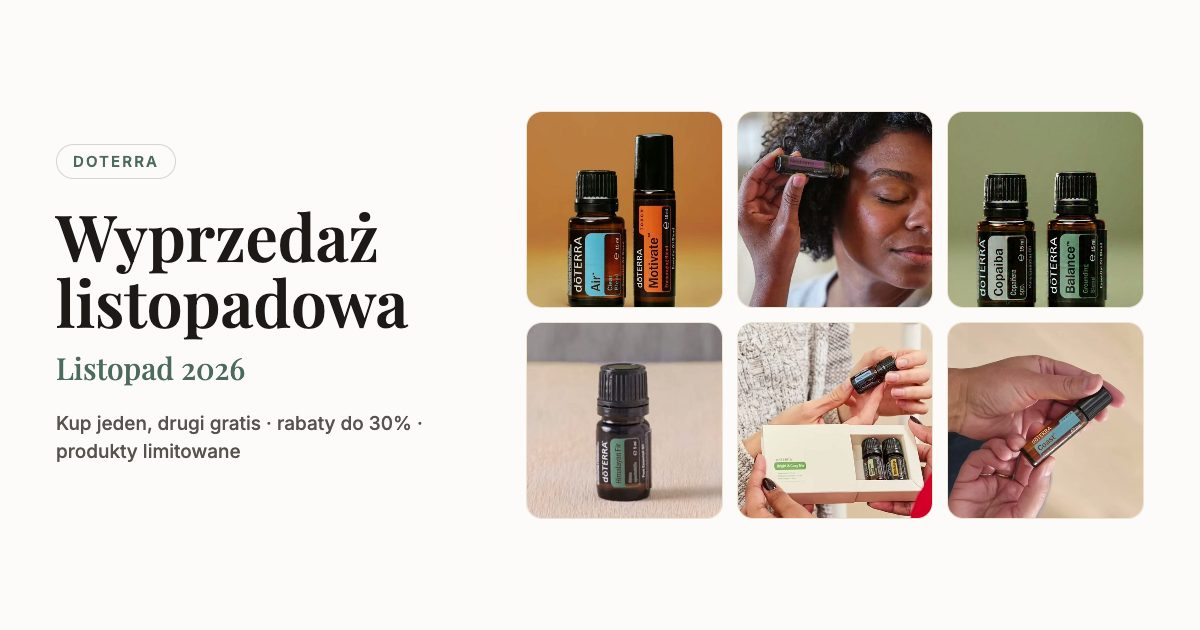
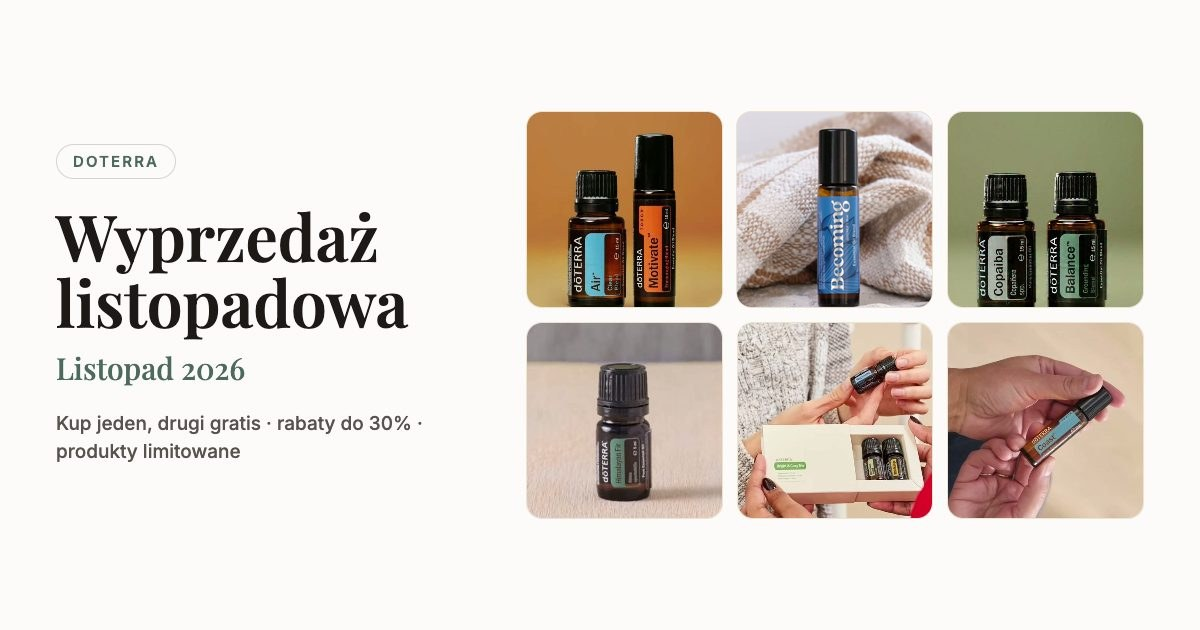
Wyprzedaż listopadowa: usunięte produkty wyprzedane w sklepie PL (Helichrysum Touch, Neshama Touch, ozdoba, lampka)
Stan sklepu 26.11.2026. Social preview: Becoming zamiast Neshama.

Changed region(s): [[0.6167, 0.1508, 0.8017, 0.5127]]

diff --git a/listopad-wyprzedaz/index.html b/listopad-wyprzedaz/index.html
@@ -4,12 +4,12 @@
 <meta property="og:url" content="https://emilia-chodorowska.github.io/new-client-offer/listopad-wyprzedaz/">
 <meta property="og:title" content="Wyprzedaż listopadowa doTERRA · listopad 2026">
 <meta property="og:description" content="Wyprzedaż listopadowa doTERRA: kup jeden, drugi gratis, rabaty do 30% i produkty limitowane. Zdjęcia, PV i ceny w zł.">
-<meta property="og:image" content="https://emilia-chodorowska.github.io/new-client-offer/listopad-wyprzedaz/social-preview.jpg?v=2">
+<meta property="og:image" content="https://emilia-chodorowska.github.io/new-client-offer/listopad-wyprzedaz/social-preview.jpg?v=3">
 <meta property="og:image:width" content="1200"><meta property="og:image:height" content="630">
 <meta name="twitter:card" content="summary_large_image">
 <meta name="twitter:title" content="Wyprzedaż listopadowa doTERRA · listopad 2026">
 <meta name="twitter:description" content="Wyprzedaż listopadowa doTERRA: kup jeden, drugi gratis, rabaty do 30% i produkty limitowane. Zdjęcia, PV i ceny w zł.">
-<meta name="twitter:image" content="https://emilia-chodorowska.github.io/new-client-offer/listopad-wyprzedaz/social-preview.jpg?v=2">
+<meta name="twitter:image" content="https://emilia-chodorowska.github.io/new-client-offer/listopad-wyprzedaz/social-preview.jpg?v=3">
 <link rel="icon" type="image/svg+xml" href="favicon.svg">
 <link rel="preconnect" href="https://fonts.googleapis.com"><link rel="preconnect" href="https://fonts.gstatic.com" crossorigin>
 <link href="https://fonts.googleapis.com/css2?family=Inter:wght@400;500;600;700&family=Playfair+Display:wght@500;600&display=swap" rel="stylesheet">
@@ -64,26 +64,20 @@ h3{font-size:19px;font-weight:600;margin:0 0 5px;line-height:1.25} .op{font-size
 <article class="k"><div class="foto"><img src="img/copaiba-balance.jpg?v=2" alt="Copaiba (15 ml) + gratis dōTERRA Balance™ (15 ml)"></div>
 <div class="tr"><div class="meta"><span class="et">KUPUJESZ 1 + GRATIS</span><span class="pvm">· 43,5 PV</span></div>
 <h3>Copaiba (15 ml) + gratis dōTERRA Balance™ (15 ml)</h3><div class="op">Płacisz za Copaibę 15 ml, Balance 15 ml dostajesz gratis (jego cena regularna: 137,50 zł).</div><div class="row"><div><div class="lab ak">Cena</div><div class="pln">205,75 <span>zł</span></div></div></div></div></article></div>
-<div class="sek"><span class="t">Rabaty na produkty z oferty stałej</span><span class="l"></span><span class="n">4 pozycje</span></div>
+<div class="sek"><span class="t">Rabaty na produkty z oferty stałej</span><span class="l"></span><span class="n">3 pozycje</span></div>
 <div class="lista"><article class="k"><div class="foto"><img src="img/adaptiv.jpg?v=2" alt="dōTERRA Adaptiv™ (15 ml)"></div>
 <div class="tr"><div class="meta"><span class="et">RABAT 10%</span><span class="pvm">· 44,5 PV</span></div>
 <h3>dōTERRA Adaptiv™ (15 ml)</h3><div class="op">mieszanka uspokajająca (cena regularna 232,00 zł)</div><div class="row"><div><div class="lab ak">Cena</div><div class="pln">209,25 <span>zł</span></div></div></div></div></article>
 <article class="k"><div class="foto"><img src="img/adaptiv-capsules.jpg?v=2" alt="Kapsułki dōTERRA Adaptiv™"></div>
 <div class="tr"><div class="meta"><span class="et">RABAT 10%</span><span class="pvm">· 32,5 PV</span></div>
 <h3>Kapsułki dōTERRA Adaptiv™</h3><div class="op">30 kapsułek (cena regularna 221,50 zł)</div><div class="row"><div><div class="lab ak">Cena</div><div class="pln">199,75 <span>zł</span></div></div></div></div></article>
-<article class="k"><div class="foto"><img src="img/helichrysum-touch.jpg?v=2" alt="Helichrysum Touch (10 ml)"></div>
-<div class="tr"><div class="meta"><span class="et">RABAT 10%</span><span class="pvm">· 50,5 PV</span></div>
-<h3>Helichrysum Touch (10 ml)</h3><div class="op">olejek z kocanki włoskiej w kulce (cena regularna 289,25 zł)</div><div class="row"><div><div class="lab ak">Cena</div><div class="pln">260,26 <span>zł</span></div></div></div></div></article>
 <article class="k"><div class="foto"><img src="img/veo-mega.jpg?v=2" alt="vEO Mega™ (wersja wegańska)"></div>
 <div class="tr"><div class="meta"><span class="et">RABAT 15%</span><span class="pvm">· 57 PV</span></div>
 <h3>vEO Mega™ (wersja wegańska)</h3><div class="op">kwasy omega, witaminy i ekstrakty roślinne w kapsułkach (cena regularna 379,25 zł)</div><div class="row"><div><div class="lab ak">Cena</div><div class="pln">322,51 <span>zł</span></div></div></div></div></article></div>
-<div class="sek"><span class="t">Produkty limitowane w niższej cenie</span><span class="l"></span><span class="n">8 pozycji</span></div>
+<div class="sek"><span class="t">Produkty limitowane w niższej cenie</span><span class="l"></span><span class="n">7 pozycji</span></div>
 <div class="lista"><article class="k"><div class="foto"><img src="img/himalayan-fir.jpg?v=2" alt="Jodła himalajska (Himalayan Fir, 5 ml)"></div>
 <div class="tr"><div class="meta"><span class="et">LIMITOWANY · RABAT 30%</span><span class="pvm">· 19,5 PV</span></div>
 <h3>Jodła himalajska (Himalayan Fir, 5 ml)</h3><div class="op">olejek jednoskładnikowy (cena regularna 131,50 zł)</div><div class="row"><div><div class="lab ak">Cena</div><div class="pln">92,00 <span>zł</span></div></div></div></div></article>
-<article class="k"><div class="foto"><img src="img/neshama.jpg?v=2" alt="Neshama Touch (10 ml)"></div>
-<div class="tr"><div class="meta"><span class="et">LIMITOWANY · RABAT 20%</span><span class="pvm">· 19 PV</span></div>
-<h3>Neshama Touch (10 ml)</h3><div class="op">mieszanka w kulce (cena regularna 111,00 zł)</div><div class="row"><div><div class="lab ak">Cena</div><div class="pln">88,75 <span>zł</span></div></div></div></div></article>
 <article class="k"><div class="foto"><img src="img/northern-escape.jpg?v=2" alt="Northern Escape (5 ml)"></div>
 <div class="tr"><div class="meta"><span class="et">LIMITOWANY · RABAT 20%</span><span class="pvm">· 22,5 PV</span></div>
 <h3>Northern Escape (5 ml)</h3><div class="op">mieszanka leśna (cena regularna 130,75 zł)</div><div class="row"><div><div class="lab ak">Cena</div><div class="pln">104,50 <span>zł</span></div></div></div></div></article>
@@ -102,9 +96,7 @@ h3{font-size:19px;font-weight:600;margin:0 0 5px;line-height:1.25} .op{font-size
 <article class="k"><div class="foto"><img src="img/bright-cosy-trio.jpg?v=2" alt="Zestaw Bright &amp; Cosy (3 × 5 ml)"></div>
 <div class="tr"><div class="meta"><span class="et">LIMITOWANY · RABAT 10%</span><span class="pvm">· 63 PV</span></div>
 <h3>Zestaw Bright &amp; Cosy (3 × 5 ml)</h3><div class="op">mięta pieprzowa, dzika pomarańcza, madagaskarska wanilia (cena regularna 312,00 zł)</div><div class="row"><div><div class="lab ak">Cena</div><div class="pln">280,75 <span>zł</span></div></div></div></div></article></div>
-<div class="sek"><span class="t">Akcesoria</span><span class="l"></span><span class="n">3 pozycje</span></div>
-<ul class="akc"><li><img src="img/ozdoba.jpg?v=2" alt="Ceramiczna ozdoba"><span>Ceramiczna ozdoba <em>· rabat 5%</em></span><b>10,25 zł</b></li>
-<li><img src="img/lampka.jpg?v=2" alt="Lampka w kształcie buteleczki olejku (Oil Glow Light)"><span>Lampka w kształcie buteleczki olejku (Oil Glow Light) <em>· rabat 5%</em></span><b>30,75 zł</b></li>
-<li><img src="img/nakladki.jpg?v=2" alt="Aluminiowe nakładki dyfuzyjne na butelki, 3 szt."><span>Aluminiowe nakładki dyfuzyjne na butelki, 3 szt. <em>· rabat 5%</em></span><b>31,75 zł</b></li></ul>
+<div class="sek"><span class="t">Akcesoria</span><span class="l"></span><span class="n">1 pozycja</span></div>
+<ul class="akc"><li><img src="img/nakladki.jpg?v=2" alt="Aluminiowe nakładki dyfuzyjne na butelki, 3 szt."><span>Aluminiowe nakładki dyfuzyjne na butelki, 3 szt. <em>· rabat 5%</em></span><b>31,75 zł</b></li></ul>
 <p class="przyp">Ceny w zł przeliczone z cennika doTERRA Europe z 18.11.2026. W sklepie mogą się nieznacznie różnić.<br>Akcesoria nie mają punktów PV.</p>
 </div></div></div></body></html>
